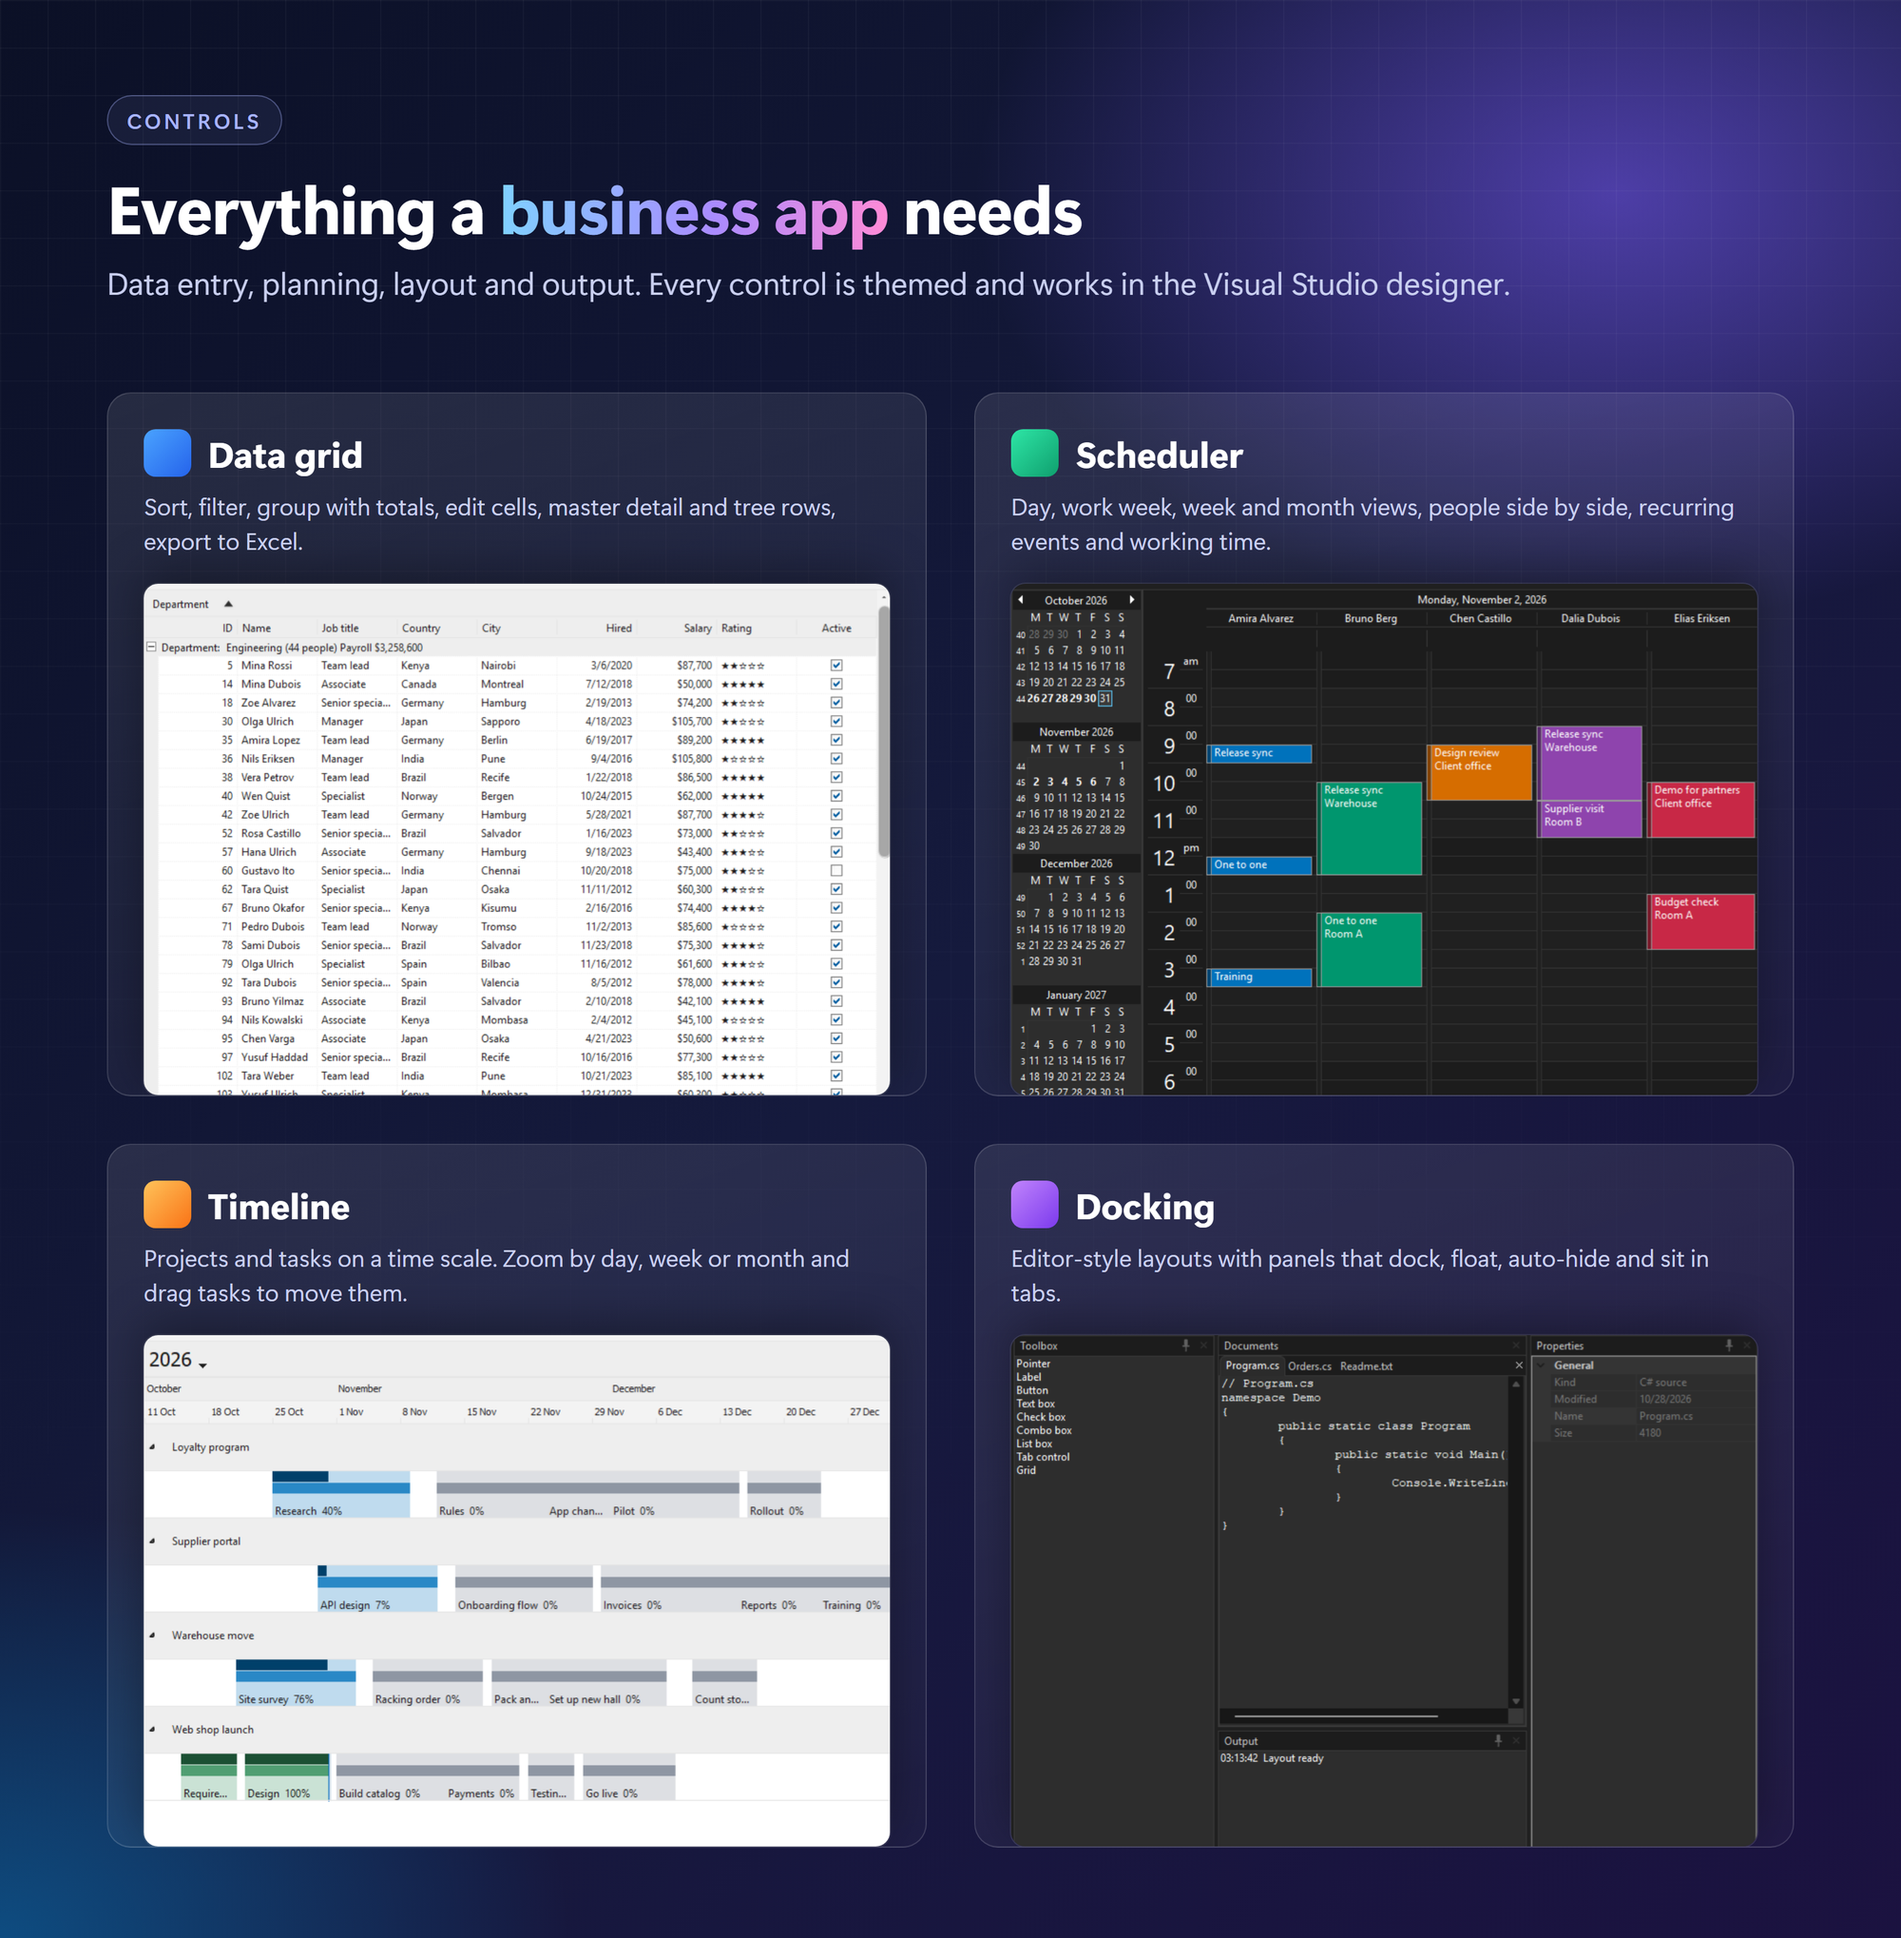
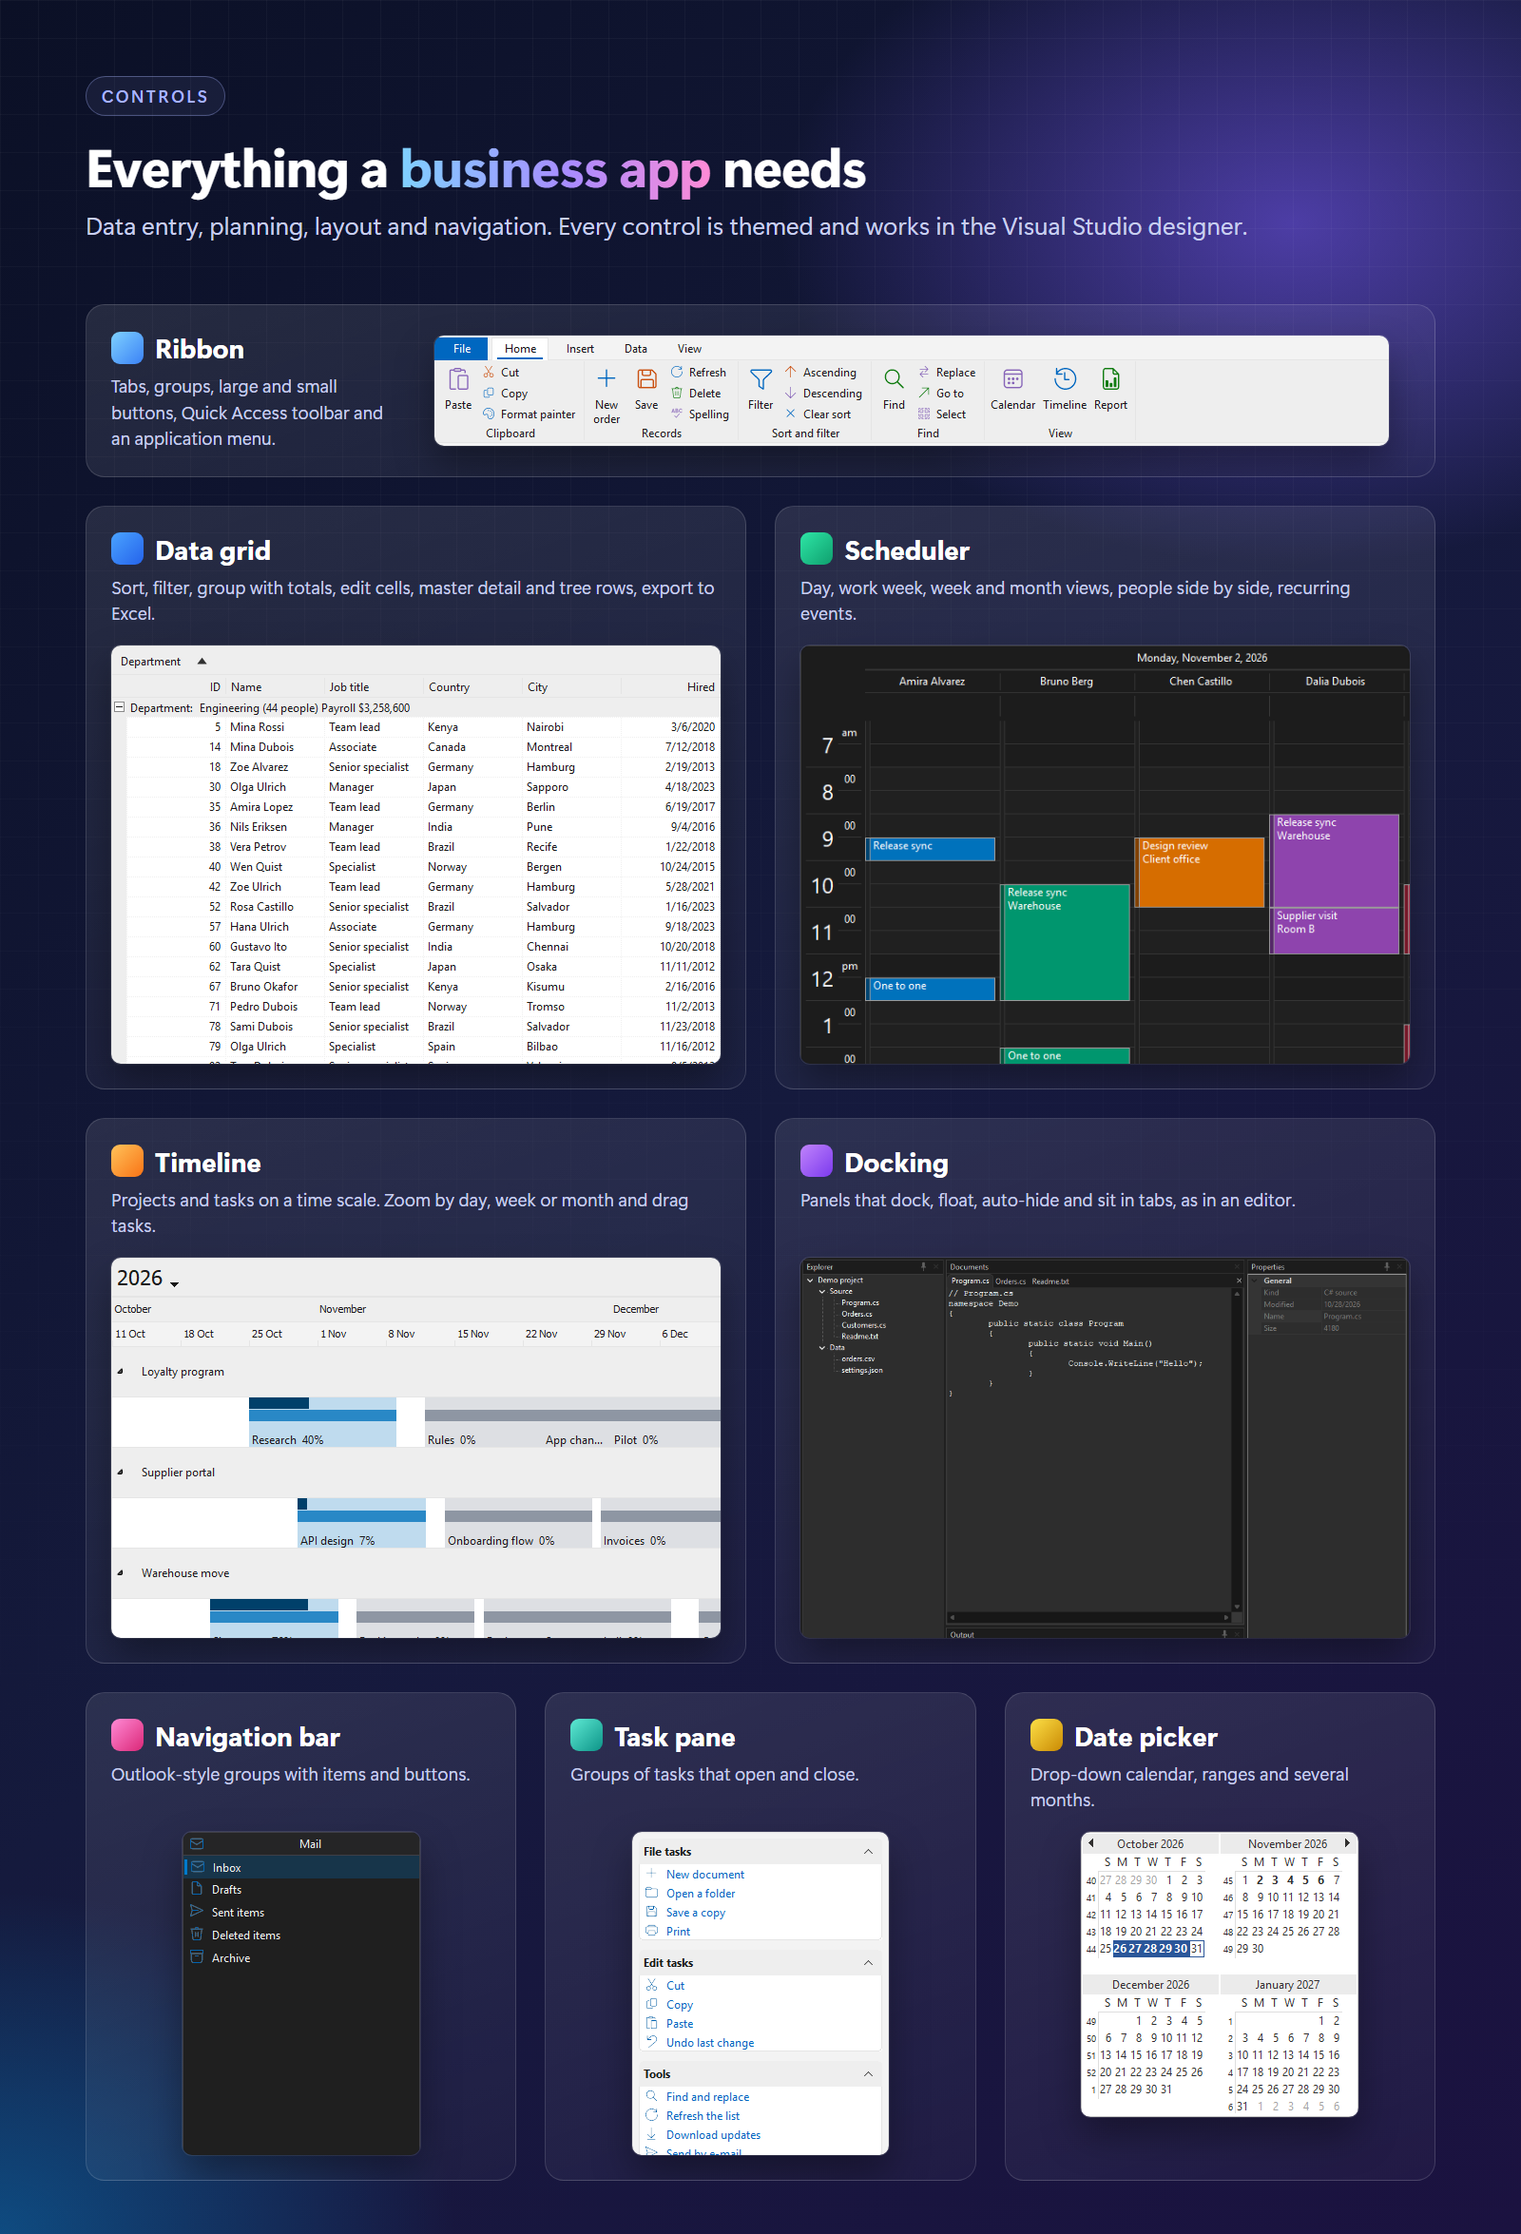
Show the controls themselves in the readme images

diff --git a/pack/Mordex.Windows.Package/README.md b/pack/Mordex.Windows.Package/README.md
@@ -8,9 +8,9 @@ The package has a data grid, ribbon, navigation bar, task pane, date picker, sch
 
 ## Screenshots
 
-![Data grid, scheduler, timeline and docking](https://raw.githubusercontent.com/ehsanenaloo/Mordex-Components/main/assets/screenshots/controls.png)
+![Ribbon, data grid, scheduler, timeline, docking and more](https://raw.githubusercontent.com/ehsanenaloo/Mordex-Components/main/assets/screenshots/controls.png)
 
-![The same window in six of the 35 themes](https://raw.githubusercontent.com/ehsanenaloo/Mordex-Components/main/assets/screenshots/themes.png)
+![The ribbon and the data grid in six of the 35 themes](https://raw.githubusercontent.com/ehsanenaloo/Mordex-Components/main/assets/screenshots/themes.png)
 
 ## Themes
 

diff --git a/README.md b/README.md
@@ -35,9 +35,9 @@ Free and open source under the MIT License.
 
 ## Screenshots
 
-![Data grid, scheduler, timeline and docking](assets/screenshots/controls.png)
+![Ribbon, data grid, scheduler, timeline, docking and more](assets/screenshots/controls.png)
 
-![The same window in six of the 35 themes](assets/screenshots/themes.png)
+![The ribbon and the data grid in six of the 35 themes](assets/screenshots/themes.png)
 
 ## Themes
 
